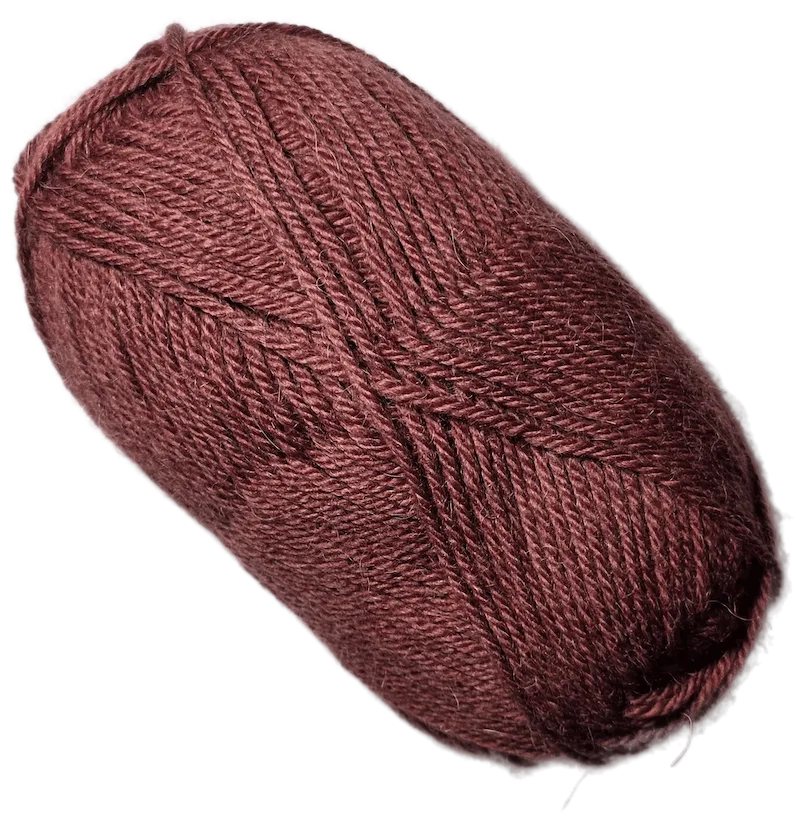
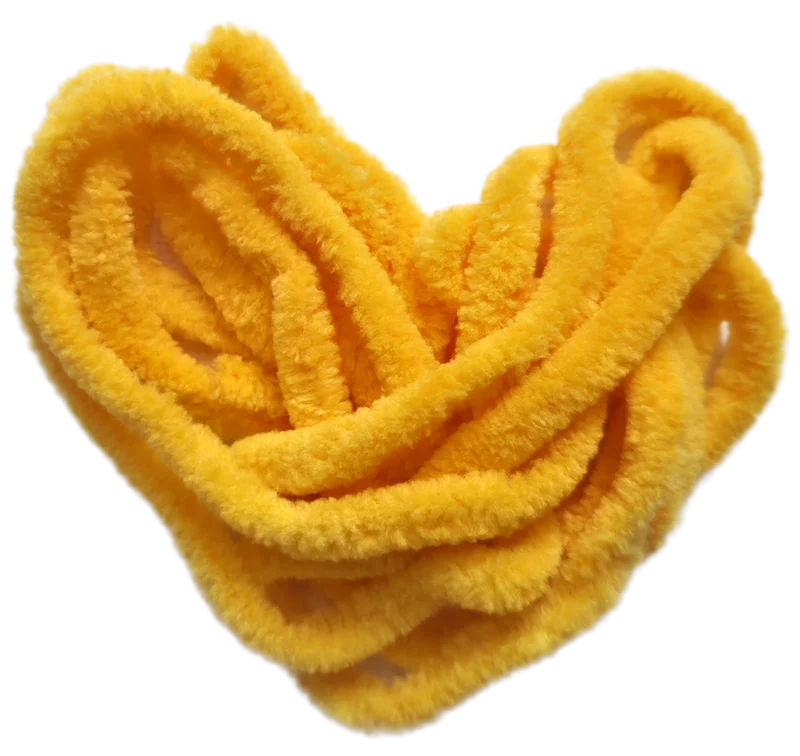
replace some assets

diff --git a/src/App.css b/src/App.css
@@ -812,7 +812,7 @@ html, body {
 
 .how-i-work-image img {
   width: 100%;
-  height: auto;
+  height: 180px;
   display: block;
   object-fit: contain;
   filter: drop-shadow(0 4px 12px rgba(0,0,0,.08));
